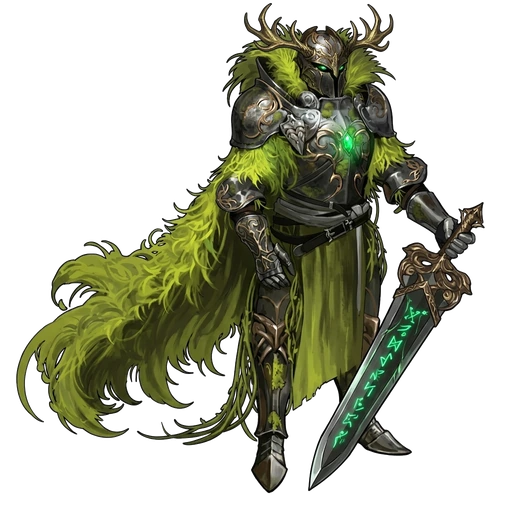
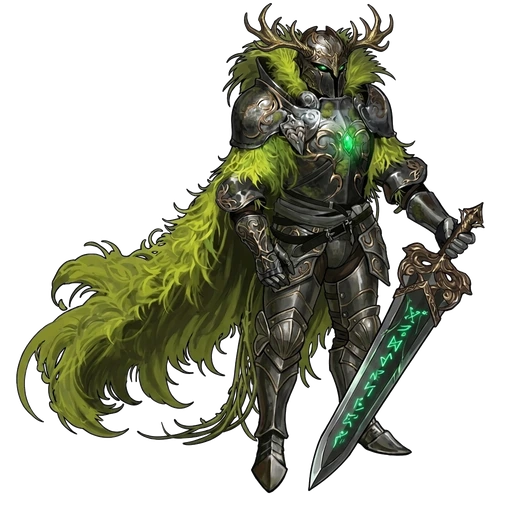
fix(art): replace Brennus green skirt with heavy leg armor and fix subtype truncation (v88)

Changed region(s): [[0.4688, 0.4062, 0.7812, 0.875]]

diff --git a/src/data/cards.ts b/src/data/cards.ts
@@ -32398,7 +32398,7 @@ const ALL_CARDS_PART_2: CardDefinition[] = [
     "name": "Leoric, Grão-Marechal do Leão Solar",
     "domain": "gold",
     "type": "creature",
-    "subtype": "Humano • General Imperial",
+    "subtype": "Humano • Marechal",
     "rarity": "legendary",
     "cost": 6,
     "affinityReq": 3,
@@ -32432,7 +32432,7 @@ const ALL_CARDS_PART_2: CardDefinition[] = [
     "name": "Valerius, Comandante da Águia Imperial",
     "domain": "gold",
     "type": "creature",
-    "subtype": "Humano • General Águia",
+    "subtype": "Humano • General",
     "rarity": "legendary",
     "cost": 5,
     "affinityReq": 3,
@@ -32471,7 +32471,7 @@ const ALL_CARDS_PART_2: CardDefinition[] = [
     "name": "Wolfgang, Marechal da Escama Solar",
     "domain": "gold",
     "type": "creature",
-    "subtype": "Humano • General Dracônico",
+    "subtype": "Humano • Marechal",
     "rarity": "legendary",
     "cost": 7,
     "affinityReq": 3,
@@ -32510,7 +32510,7 @@ const ALL_CARDS_PART_2: CardDefinition[] = [
     "name": "Khorvus, Tirano da Máscara Auricrânia",
     "domain": "red",
     "type": "creature",
-    "subtype": "Humano • General Tirano",
+    "subtype": "Humano • General",
     "rarity": "legendary",
     "cost": 5,
     "affinityReq": 3,
@@ -32544,7 +32544,7 @@ const ALL_CARDS_PART_2: CardDefinition[] = [
     "name": "Malakor, General da Lâmina Colossal",
     "domain": "red",
     "type": "creature",
-    "subtype": "Humano • General Berserker",
+    "subtype": "Humano • General",
     "rarity": "legendary",
     "cost": 6,
     "affinityReq": 3,
@@ -32584,7 +32584,7 @@ const ALL_CARDS_PART_2: CardDefinition[] = [
     "name": "Ignis, Marechal da Coroa de Cinzas",
     "domain": "red",
     "type": "creature",
-    "subtype": "Humano • General Vulcânico",
+    "subtype": "Humano • Marechal",
     "rarity": "legendary",
     "cost": 7,
     "affinityReq": 3,
@@ -32623,7 +32623,7 @@ const ALL_CARDS_PART_2: CardDefinition[] = [
     "name": "Arcturus, Rei-Juiz da Coroa de Safira",
     "domain": "blue",
     "type": "creature",
-    "subtype": "Humano • General Juiz",
+    "subtype": "Humano • General",
     "rarity": "legendary",
     "cost": 6,
     "affinityReq": 3,
@@ -32662,7 +32662,7 @@ const ALL_CARDS_PART_2: CardDefinition[] = [
     "name": "Leona, Marechal do Leão Branco de Inverno",
     "domain": "blue",
     "type": "creature",
-    "subtype": "Humano • General Glacial",
+    "subtype": "Humano • Marechal",
     "rarity": "legendary",
     "cost": 5,
     "affinityReq": 3,
@@ -32701,7 +32701,7 @@ const ALL_CARDS_PART_2: CardDefinition[] = [
     "name": "Selene, Estrategista da Égide Lunar",
     "domain": "blue",
     "type": "creature",
-    "subtype": "Humano • General Lunar",
+    "subtype": "Humano • General",
     "rarity": "legendary",
     "cost": 7,
     "affinityReq": 3,
@@ -32740,7 +32740,7 @@ const ALL_CARDS_PART_2: CardDefinition[] = [
     "name": "Aldric, Marechal do Lobo Prateado",
     "domain": "neutral",
     "type": "creature",
-    "subtype": "Humano • General Lupino",
+    "subtype": "Humano • Marechal",
     "rarity": "legendary",
     "cost": 5,
     "affinityReq": 0,
@@ -32779,7 +32779,7 @@ const ALL_CARDS_PART_2: CardDefinition[] = [
     "name": "Garruk, Bastião de Ferro Veterano",
     "domain": "neutral",
     "type": "creature",
-    "subtype": "Humano • General de Cerco",
+    "subtype": "Humano • General",
     "rarity": "legendary",
     "cost": 6,
     "affinityReq": 0,
@@ -32813,7 +32813,7 @@ const ALL_CARDS_PART_2: CardDefinition[] = [
     "name": "Vaelor, Lorde-Comandante do Olho de Ferro",
     "domain": "neutral",
     "type": "creature",
-    "subtype": "Humano • Lorde-Comandante",
+    "subtype": "Humano • General",
     "rarity": "legendary",
     "cost": 7,
     "affinityReq": 0,
@@ -32853,7 +32853,7 @@ const ALL_CARDS_PART_2: CardDefinition[] = [
     "name": "Brennus, Marechal do Manto de Musgo",
     "domain": "green",
     "type": "creature",
-    "subtype": "Humano • General Silvestre",
+    "subtype": "Humano • Marechal",
     "rarity": "legendary",
     "cost": 5,
     "affinityReq": 3,
@@ -32893,7 +32893,7 @@ const ALL_CARDS_PART_2: CardDefinition[] = [
     "name": "Flora, Dama do Florescer Perene",
     "domain": "green",
     "type": "creature",
-    "subtype": "Humano • General Floral",
+    "subtype": "Humano • General",
     "rarity": "legendary",
     "cost": 6,
     "affinityReq": 3,
@@ -32939,7 +32939,7 @@ const ALL_CARDS_PART_2: CardDefinition[] = [
     "name": "Verbena, Marechal do Cardo Real",
     "domain": "green",
     "type": "creature",
-    "subtype": "Humano • General do Cardo",
+    "subtype": "Humano • Marechal",
     "rarity": "legendary",
     "cost": 7,
     "affinityReq": 3,
@@ -32985,7 +32985,7 @@ const ALL_CARDS_PART_2: CardDefinition[] = [
     "name": "Morgause, Dama do Ferro Abissal",
     "domain": "purple",
     "type": "creature",
-    "subtype": "Humano • General Abissal",
+    "subtype": "Humano • General",
     "rarity": "legendary",
     "cost": 6,
     "affinityReq": 3,
@@ -33018,7 +33018,7 @@ const ALL_CARDS_PART_2: CardDefinition[] = [
     "name": "Corvina, Marechal do Bico da Praga",
     "domain": "purple",
     "type": "creature",
-    "subtype": "Humano • General da Praga",
+    "subtype": "Humano • Marechal",
     "rarity": "legendary",
     "cost": 5,
     "affinityReq": 3,
@@ -33057,7 +33057,7 @@ const ALL_CARDS_PART_2: CardDefinition[] = [
     "name": "Nyxara, Comandante das Lâminas do Véu",
     "domain": "purple",
     "type": "creature",
-    "subtype": "Humano • General do Véu",
+    "subtype": "Humano • General",
     "rarity": "legendary",
     "cost": 7,
     "affinityReq": 3,

diff --git a/src/data/cardArtPrompts.ts b/src/data/cardArtPrompts.ts
@@ -1078,7 +1078,7 @@ export const CARD_ART_PROMPTS: Record<string, string> = {
   "neutral_179_aldric_marechal_lobo_prateado": "2D Dark Fantasy gothic baroque cel-shaded ink illustration, veteran Silver-Wolf Marshal Aldric with white hair and beard crowned by a silver-and-brass circlet, ornate silver plate armor with a sculpted wolf-head chest medallion inset with jade, thick white wolf-fur collar, slate-teal war-cloak with golden aiguillettes, resting his right hand on a colossal planted gold-and-steel runic broadsword on pure white background.",
   "neutral_180_garruk_bastiao_ferro_veterano": "2D Dark Fantasy gothic baroque cel-shaded ink illustration, hulking Iron-Bastion Veteran General Garruk with scarred face and short silver beard, wearing massive layered steel pauldrons, embossed iron-and-brass fortress breastplate over charcoal-and-crimson mercenary gambeson, oversized siege gauntlet on his left arm, and right hand resting on a planted flat-tipped executioner greatsword with glowing amber forge-runes on pure white background.",
   "neutral_181_vaelor_lorde_comandante_olho_ferro": "2D Dark Fantasy gothic baroque cel-shaded ink illustration, monolithic Iron-Eye Lord-Commander Vaelor with grizzled mustache and glowing amber runic eyepatch, enormous curved crescent-wing steel pauldrons trimmed in antique brass, long dark battle cloak, hands resting on his brass eagle belt buckle, and a colossal slab-greatsword strapped vertically behind his back on pure white background.",
-  "green_179_brennus_marechal_manto_musgo": "2D Dark Fantasy gothic baroque cel-shaded ink illustration, towering Moss-Mantle Sylvan Marshal Brennus in dark steel-and-bronze filigree plate armor overgrown with living chartreuse moss, crowned with golden-oak stag antlers and glowing emerald eyes, emerald sap-gem on chestplate, sweeping moss-and-fern war cloak, and wielding a moss-covered runic broadsword on pure white background.",
+  "green_179_brennus_marechal_manto_musgo": "2D Dark Fantasy gothic baroque cel-shaded ink illustration, towering Moss-Mantle Sylvan Marshal Brennus in full dark steel-and-bronze filigree plate armor including heavy articulated steel cuisses, knee-guards, and greaves (no cloth skirt), overgrown with living chartreuse moss on shoulders, crowned with golden-oak stag antlers and glowing emerald eyes, emerald sap-gem on chestplate, sweeping moss-and-fern war cloak, and wielding a moss-covered runic broadsword on pure white background.",
   "green_180_flora_dama_florescer_perene": "2D Dark Fantasy gothic baroque cel-shaded ink illustration, serene Perennial-Bloom Female Knight-General Flora in sculpted ironwood-and-bronze plate armor crowned with golden-jade blossoms, blooming pink cherry-blossom branches growing from her shoulders and trailing cloak, glowing emerald essence-crystal in her mossy waist reliquary, a golden-emerald spirit songbird perched on her raised left hand, and right hand resting on a tall planted living-wood greatsword on pure white background.",
   "green_181_verbena_marechal_cardo_real": "2D Dark Fantasy gothic baroque cel-shaded ink illustration, slender Royal-Thistle Female Spear-Marshal Verbena in sculpted emerald leaf-scale plate armor with gold filigree and glowing sap-veins, crowned by a colossal blooming royal-violet thistle flower over a golden-emerald diadem, tattered leaf-wing cape, wielding a thorny living-briar lance in her right hand and a giant sculpted leaf tower-shield on her left arm on pure white background.",
   "purple_179_morgause_dama_ferro_abissal": "2D Dark Fantasy gothic baroque cel-shaded ink illustration, slender Gothic Abyssal Female Dread-Marshal Morgause in spiked black-obsidian plate armor with an elongated upward-tilted visor helm crowned in black-gold and glowing purple amethysts, glowing violet soul-gem on her breastplate, holding a tall runic black tower shield on her right and resting her left gauntlet on a planted abyssal greatsword on pure white background.",

diff --git a/src/components/CardView.tsx b/src/components/CardView.tsx
@@ -496,7 +496,7 @@ export const CardView: React.FC<CardViewProps> = ({
           <div className={`cpa-token-art aura-${displayCard.domain}`}>
             {!imgError && displayCard.imagePath ? (
               <img
-                src={`${displayCard.imagePath}?v=73`}
+                src={`${displayCard.imagePath}?v=74`}
                 alt={displayName}
                 className="cpa-token-img"
                 onError={() => setImgError(true)}
@@ -667,7 +667,7 @@ export const CardView: React.FC<CardViewProps> = ({
 
           {!imgError && displayCard.imagePath ? (
             <img
-              src={`${displayCard.imagePath}?v=73`}
+              src={`${displayCard.imagePath}?v=74`}
               alt={displayName}
               className="card-cutout-img"
               onError={() => setImgError(true)}

diff --git a/public/sw.js b/public/sw.js
@@ -1,4 +1,4 @@
-const CACHE_VERSION = 'chromatic-pact-v87';
+const CACHE_VERSION = 'chromatic-pact-v88';
 const ASSET_CACHE = `${CACHE_VERSION}-assets`;
 
 const PRECACHE_URLS = [
